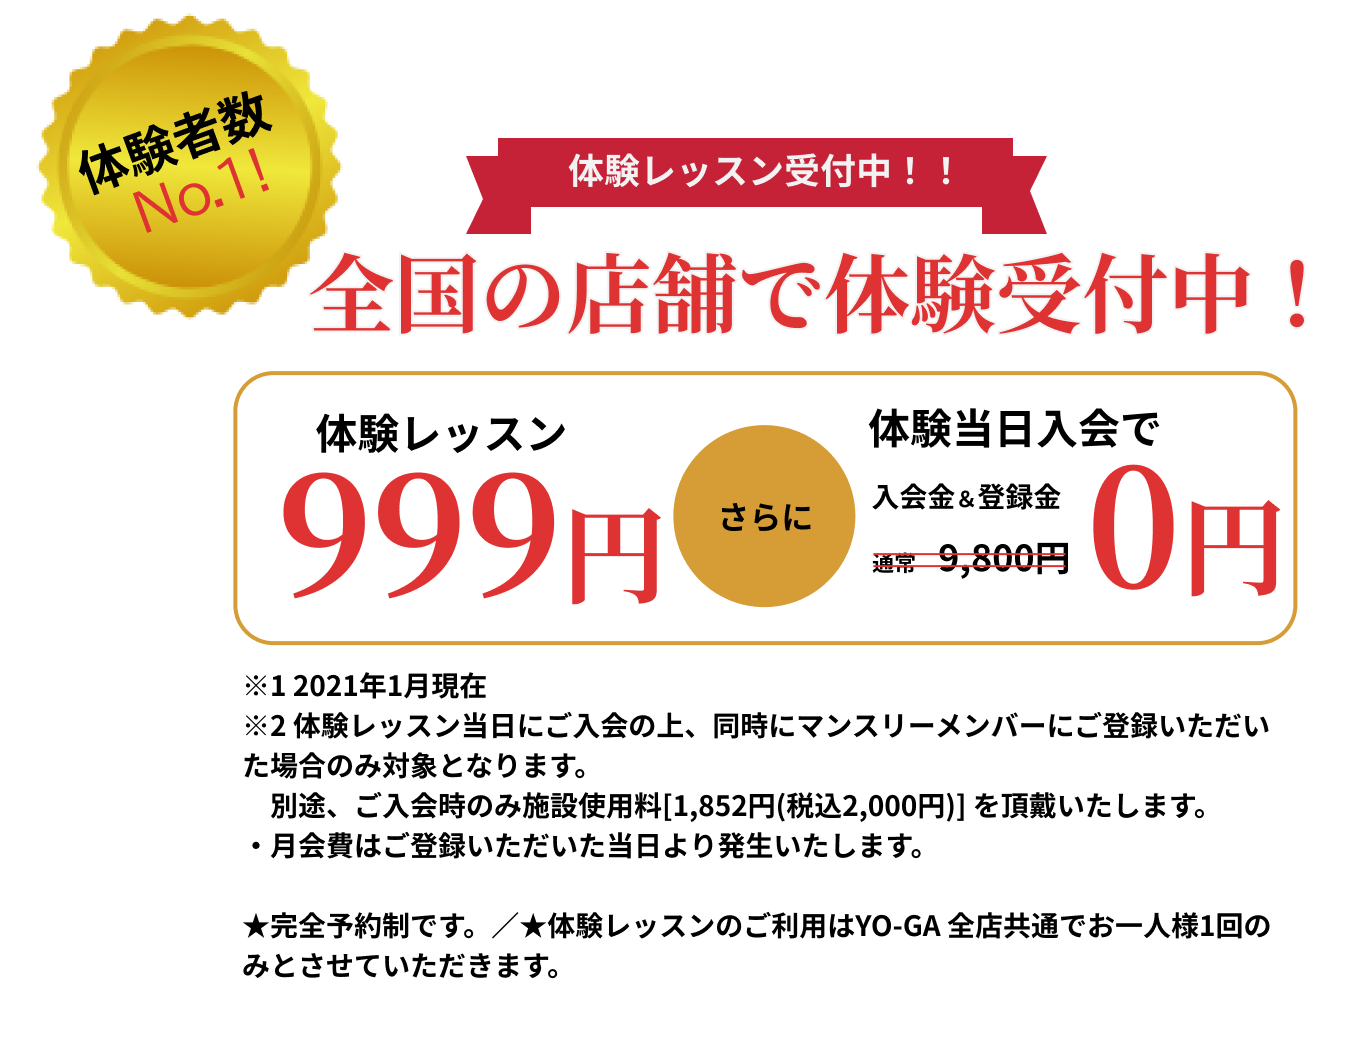
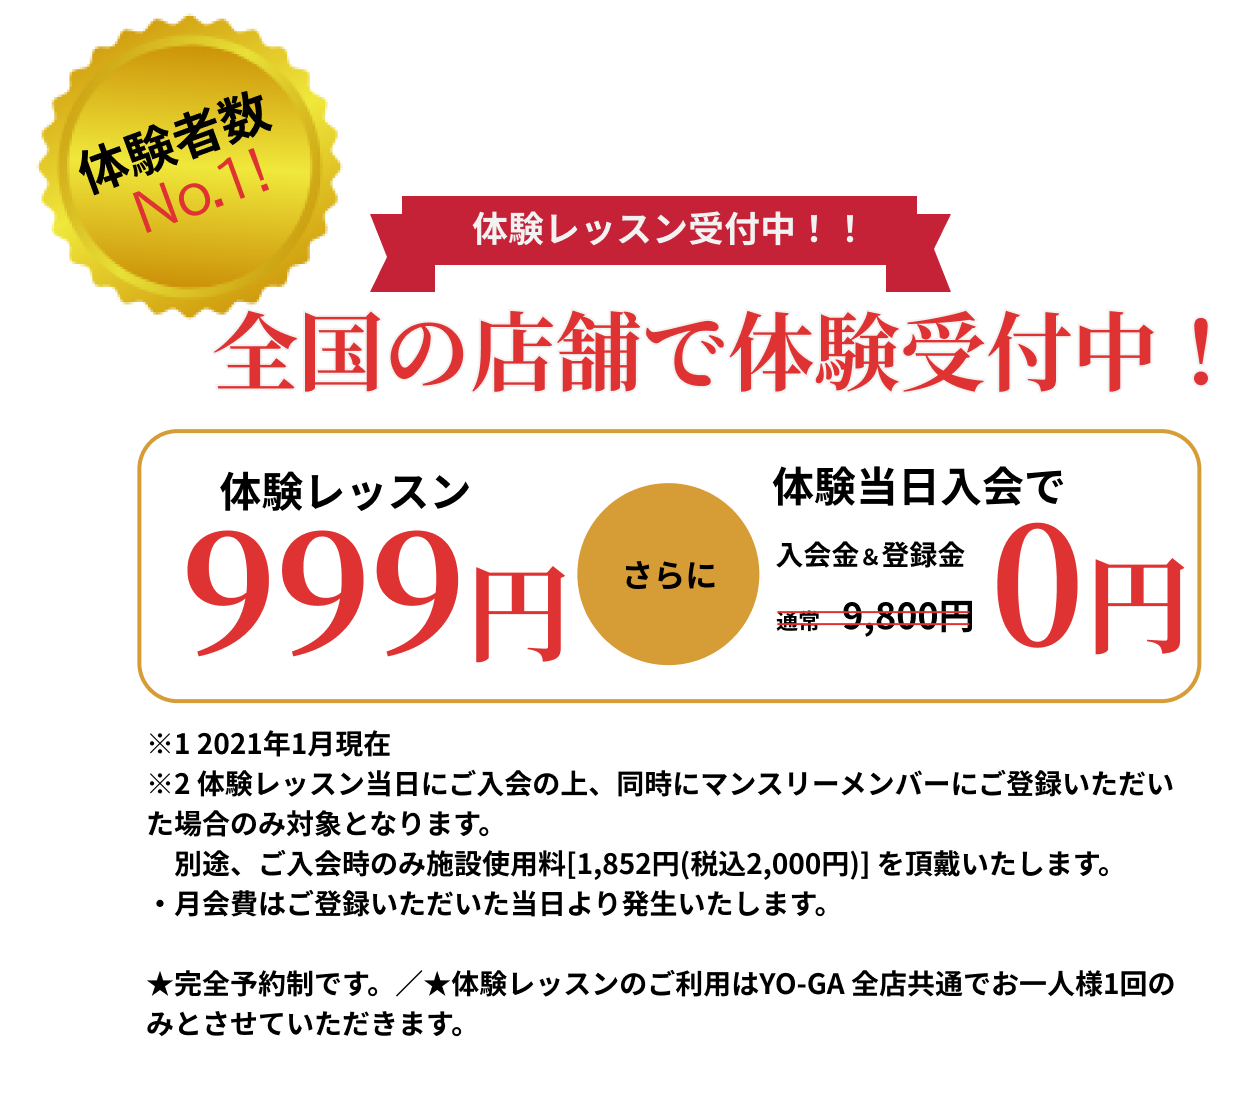
もう少し細かく

Changed region(s): [[0.031, 0.0, 0.961, 0.9375], [0.062, 0.0312, 0.093, 0.0625]]

diff --git a/index.html b/index.html
@@ -66,7 +66,7 @@
     </header>
     <section id="campaign">
         <div class="bg-yellow pb-4 p-4 xl:px-24">
-            <h2 class="hidden md:block pr-4 lg:pr-10 xl:py-10"><img class="mx-auto max-w-screen-lg w-full" src="images/contents-1-pc1.webp" alt="全国の店舗で体験受付中"></h2>
+            <h2 class="hidden md:block pr-4 lg:pr-10 xl:py-10"><img class="mx-auto max-w-screen-lg w-full" src="images/contents-1-pc.png" alt="全国の店舗で体験受付中"></h2>
             <h2 class="md:hidden pr-4 lg:pr-10 xl:py-10"><img class="mx-auto max-w-screen-lg w-full" src="images/contents-1-md.png" alt="全国の店舗で体験受付中"></h2>
             <div class="text-center px-10">
                 <button><img src="images/btn-lesson.webp" alt="体験レッスンを予約する"></button>
